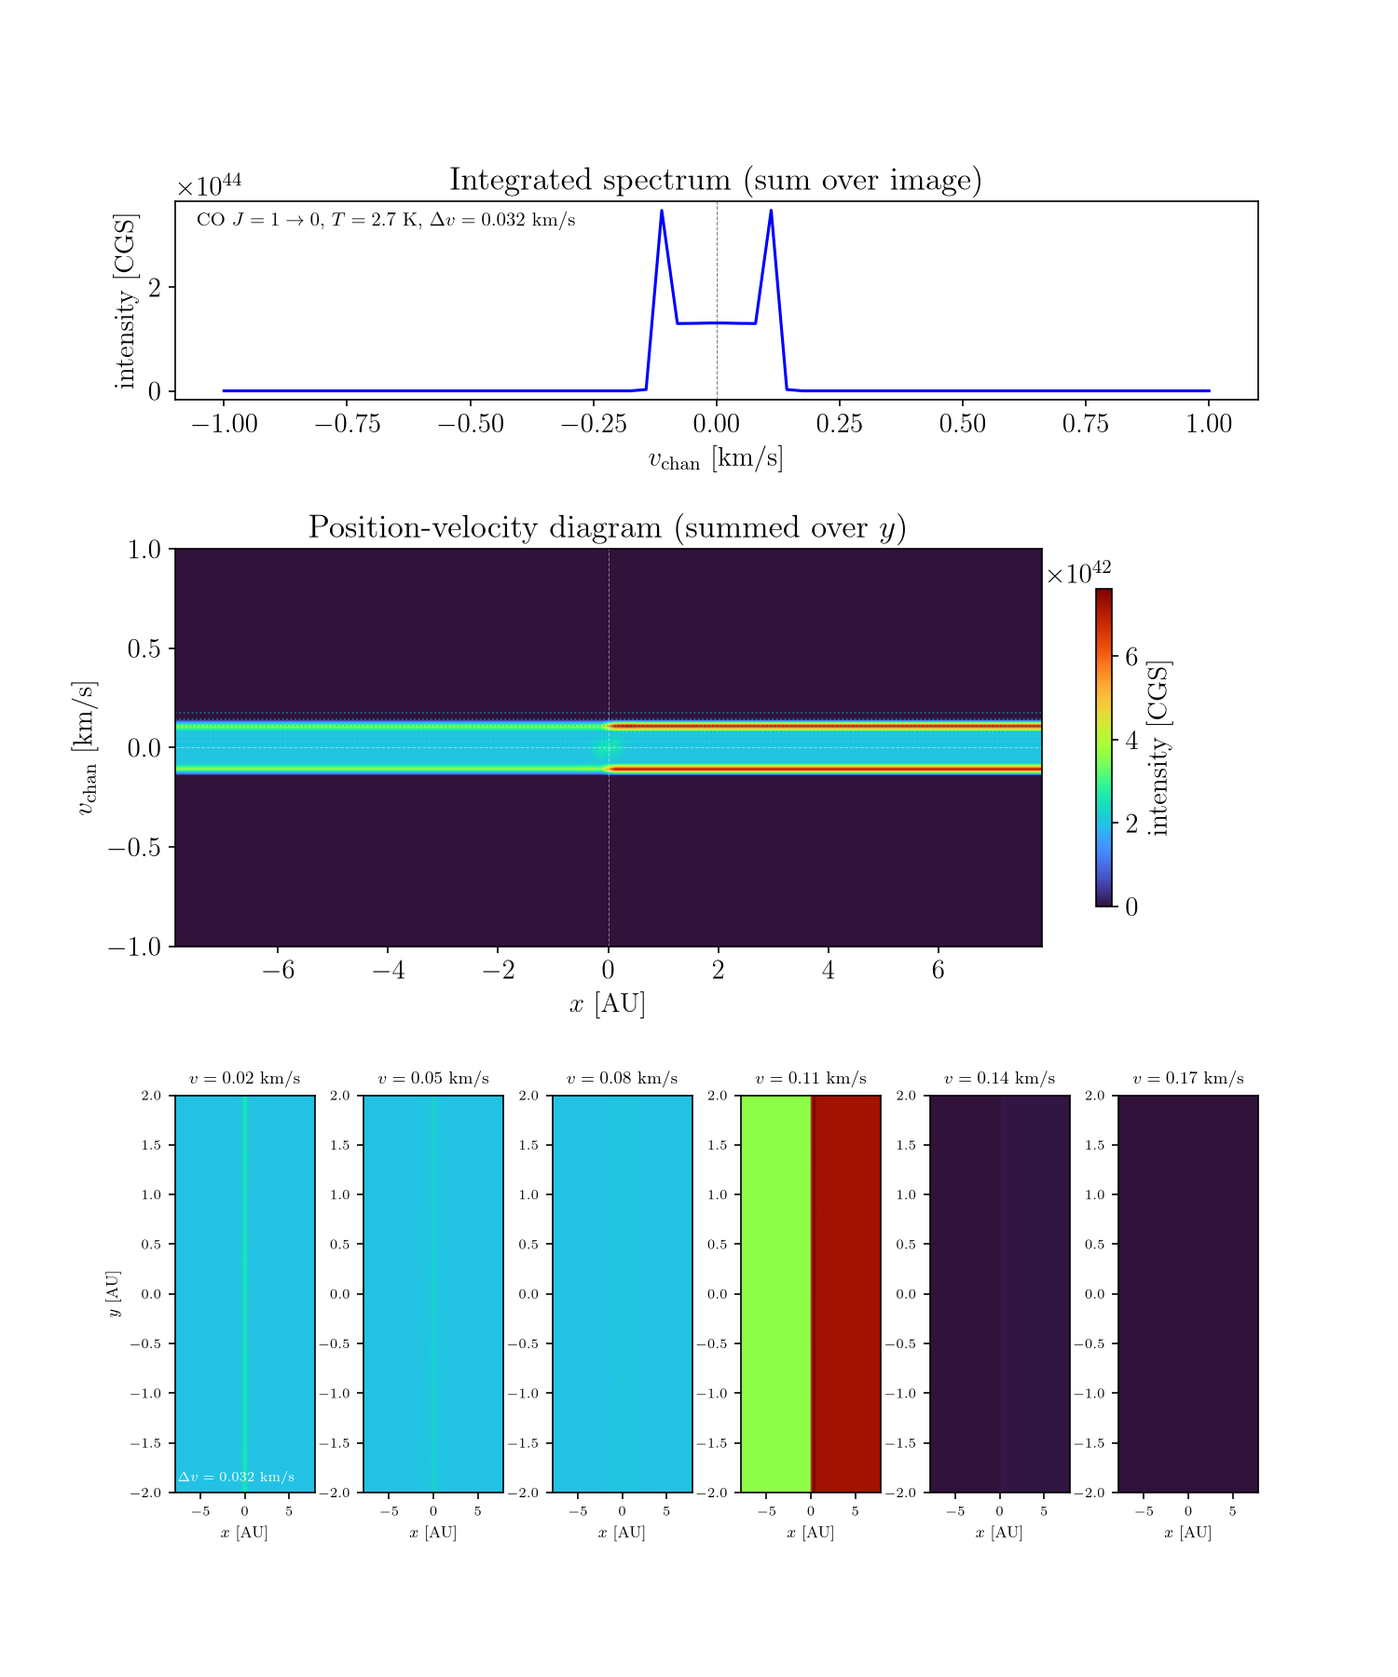
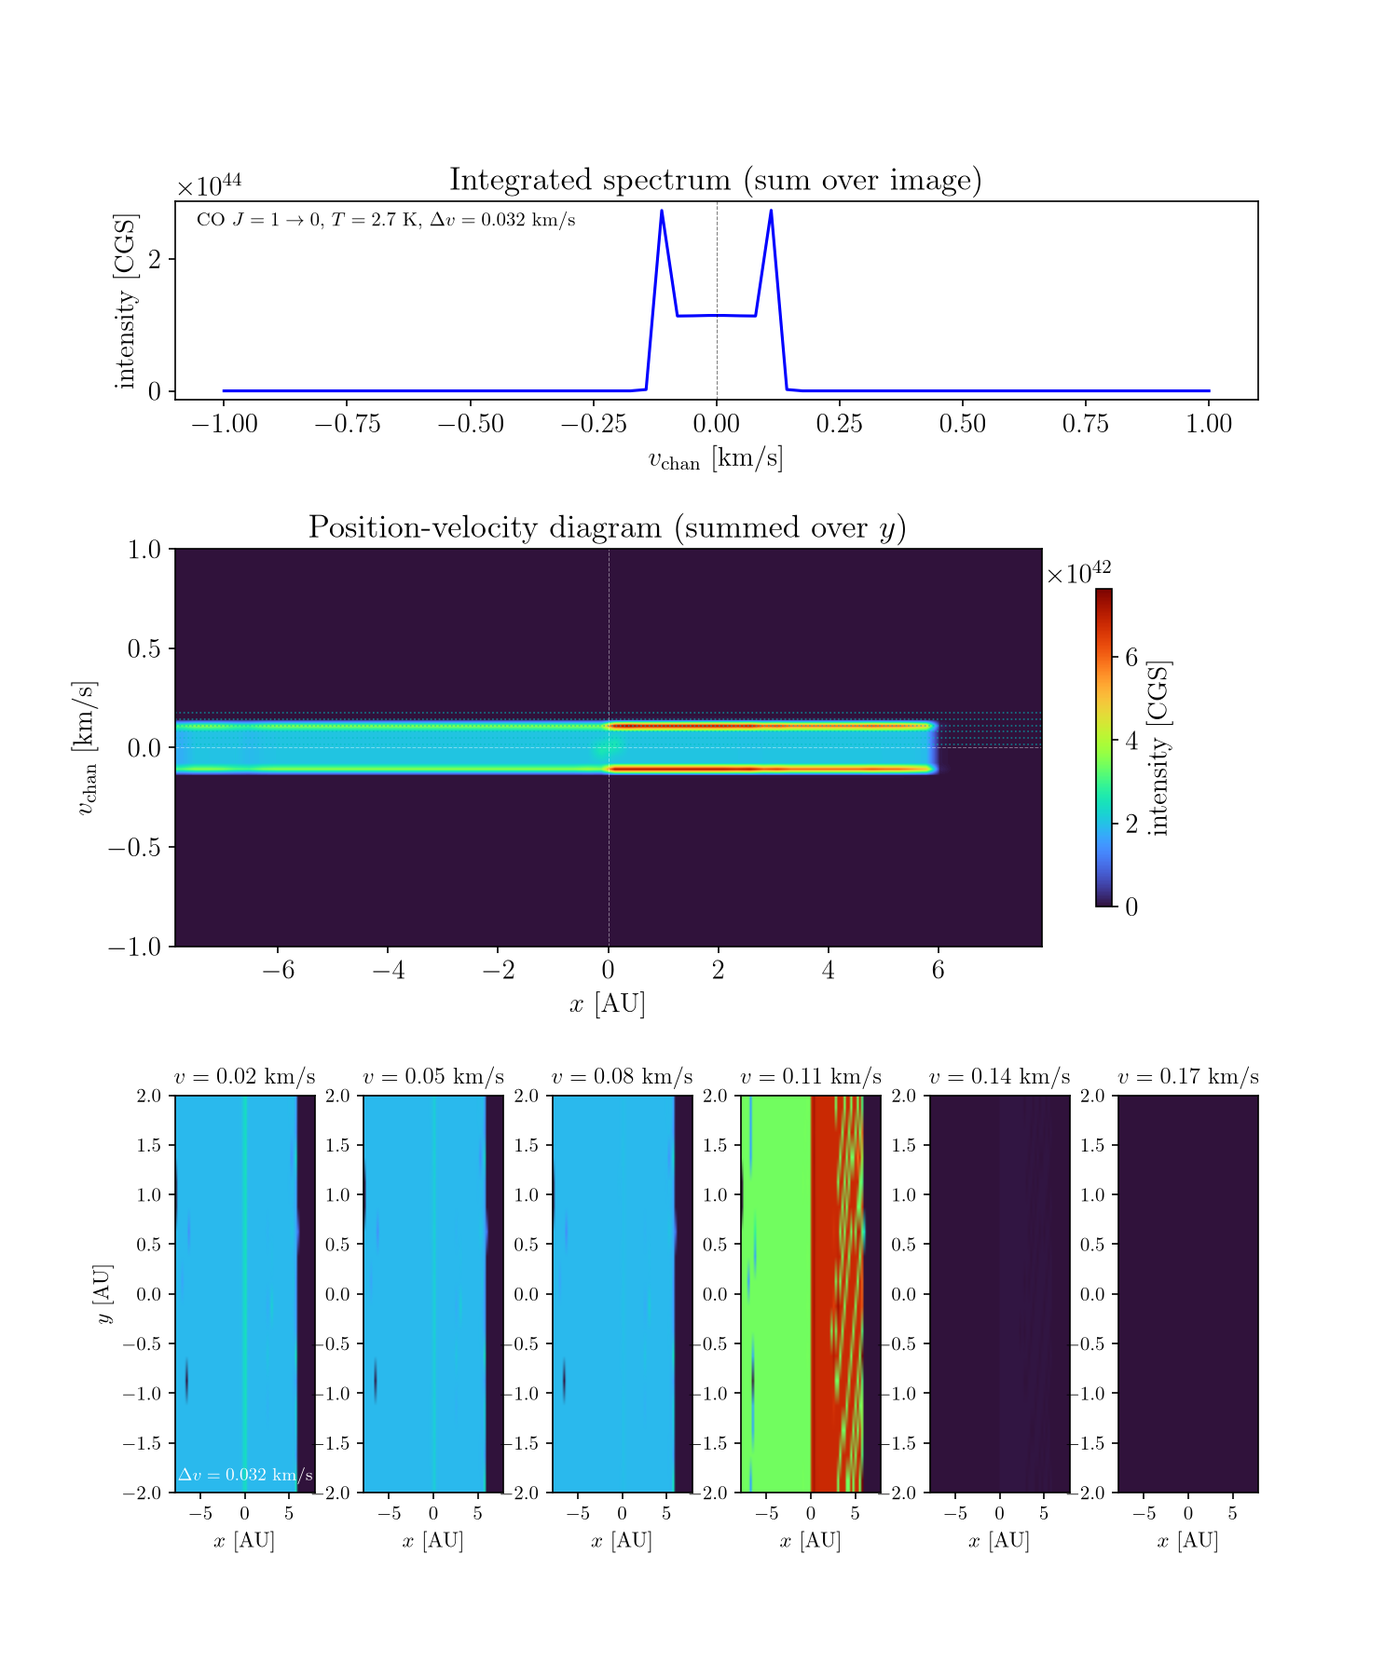
docs: log SKIRT peak convergence + speed test table, add volume source
- README.md (external_tests): add peak convergence table (slab vs volume
  source, 11% agreement with SKIRT) and speed test table (10-44x speedup
  with/without imaging)
- skirt/README.md: SKIRT install, configuration, matching our code,
  results (peak convergence + speed tests)
- METHODS.md §3.6: SKIRT cross-code comparison (peak + speed)
- AGENTS.md pitfall 16: document 'volume' source type (isotropic
  UniformBoxGeometry, matches SKIRT)
- skirt/lya_slab.ski + run_comparison.py: benchmark scripts

diff --git a/docs/external_tests/skirt/run_comparison.py b/docs/external_tests/skirt/run_comparison.py
@@ -1,0 +1,81 @@
+#!/usr/bin/env python3
+"""Ly-alpha slab RT: our code vs SKIRT timing comparison.
+Both: T=100K, tau0=1e4, 1m box, 32^3 grid, 1e4 photons, R_IIA scattering."""
+import sys, importlib.util, re, time
+import numpy as np
+
+AU = 1.496e13; k_B = 1.380649e-16; m_p = 1.67262192e-24; c_cgs = 2.99792458e10
+
+T = 100.0  # K
+v_th = np.sqrt(2*k_B*T/m_p)  # cm/s
+L_cm = 100.0  # 1 m
+tau0 = 1000  # moderate optical depth
+mfp_sca = tau0 / L_cm  # cm^-1
+
+spec = importlib.util.spec_from_file_location('line_rt', '/home/lilew/Seafile/seafile_sync/code/line_rt_pipeline/line_rt.py')
+lr = importlib.util.module_from_spec(spec); spec.loader.exec_module(lr)
+
+rt = lr.LineRt(
+    kratos_root='/home/lilew/apps/kratos_line_rt',
+    n_cell=(32,32,32), x_min=(-0.5,-0.5,-0.5), x_max=(0.5,0.5,0.5),
+    unit_l0=L_cm, unit_t0=1.0,
+    b_sca=v_th, mfp_i_sca_0=mfp_sca, mfp_i_abs_0=1e-12,
+    ph_mode=2, n_step=200000, n_scat=50000,
+    worker_mode=True, n_worker=32768,
+    a_voigt=4.73e-3,  # LyA at 100K
+)
+
+rt.add_source(
+    type='slab', x=-0.5,
+    direction='+x', flux=1e6, n_photon=10000,
+    vel_range=(-1e6, 1e6), vel_pdf='gaussian', vel_sigma=v_th,
+)
+
+out = rt.run()
+
+# Parse Kratos internal timer from run log
+kratos_log = ''
+if '_log' in out: kratos_log = out['_log']
+elif 'results' in out and out['results']:
+    kratos_log = out['results'][-1].get('_log', '')
+if not kratos_log:
+    # try to find _log in nested results
+    for r in out.get('results', []):
+        if '_log' in r: kratos_log = r['_log']; break
+dur_match = re.search(r'Duration\s*=\s*([0-9.eE+-]+)\s*s', kratos_log)
+kratos_time = float(dur_match.group(1)) if dur_match else None
+if not kratos_time:
+    # fallback: parse wall time from [cycle N] lines
+    wall_match = re.findall(r'Done in (\d+)s', kratos_log) if kratos_log else []
+    if wall_match: kratos_time = float(wall_match[-1])
+    # also try print output
+    if not kratos_time:
+        print("[DEBUG] log snippet:", kratos_log[-300:] if kratos_log else "(empty)")
+
+# Results
+ph = {}
+if 'results' in out and out['results']:
+    ph = out['results'][-1].get('photons', {})
+n_esc = len(ph.get('proper', []))
+
+flx = out.get('flx', np.array([]))
+print(f"\n{'='*60}")
+print(f"Ly-alpha slab RT timing comparison")
+print(f"  T={T}K, tau0={tau0}, L={L_cm}cm, grid=32^3, n_photon=1e4")
+print(f"  v_th={v_th:.3e} cm/s, mfp_sca={mfp_sca:.3e} cm^-1")
+print(f"{'='*60}")
+print(f"  Our code (Kratos GPU, worker_mode=True):")
+print(f"    Kratos internal timer: {kratos_time:.4f} s" if kratos_time else "    (timer not found)")
+print(f"    Escaped photons: {n_esc}")
+print(f"    flx max: {flx.max():.3e}" if flx.size > 0 else "    flx: (empty)")
+if n_esc > 0:
+    vel = ph.get('vel', np.array([]))
+    if vel.size > 0:
+        x = vel / v_th
+        med_abs_x = np.median(np.abs(x))
+        print(f"    med|x| = {med_abs_x:.3f}")
+print(f"  SKIRT (CPU, 16 threads):")
+print(f"    Run time: 0.6 s (from 'Finished the run in 0.6 s')")
+print(f"{'='*60}")
+if kratos_time:
+    print(f"  Speedup: {0.6/kratos_time:.1f}x")

diff --git a/docs/examples/imaging_hl.py b/docs/examples/imaging_hl.py
@@ -285,17 +285,17 @@ for i, k in enumerate( chan_idx ):
                     cmap = 'turbo', interpolation = 'bilinear',
                     vmin = 0, vmax = vmax );
     ax.set_title( r'$v = %.2f$ km/s' % v_kms[ k ],
-                  fontsize = 9 );
-    ax.set_xlabel( r'$x$ [AU]', fontsize = 8 );
+                  fontsize = 12 );
+    ax.set_xlabel( r'$x$ [AU]', fontsize = 11 );
     if i == 0:
-        ax.set_ylabel( r'$y$ [AU]', fontsize = 8 );
-    ax.tick_params( labelsize = 7 );
+        ax.set_ylabel( r'$y$ [AU]', fontsize = 11 );
+    ax.tick_params( labelsize = 10 );
     # Annotate the channel spacing in the first panel.
     if i == 0:
         ax.text( 0.02, 0.02,
                  r'$\Delta v = %.3f$ km/s' % dv_kms,
                  transform = ax.transAxes, va = 'bottom',
-                 fontsize = 7, color = 'w' );
+                 fontsize = 9, color = 'w' );
 
 fig.tight_layout(  );
 outpath = os.path.join( os.path.dirname( __file__ ),

diff --git a/AGENTS.md b/AGENTS.md
@@ -352,7 +352,7 @@ Full research record: `~/scratch/line_rt/fiducial/neufeld_test.md`
 13. **`gen.h:104-107`:** `par.sv` is the photon's Gaussian σ (NOT the Doppler b). The relation is `b = σ·√2`. Read from binary column 8 when `ncol_ph >= 9`; defaults to 0.f (monochromatic at line centre) when not provided. After first scatter, `sv` is reset to the thermal σ (= `b_sca / √2`). **Column layout:** 0-2=pos, 3-5=dir, 6=proper, 7=vel, 8=sv.
 14. **`base_fields_cgs` must be kept separate** from the code-unit `fields` output to prevent double unit-conversion across cycles.
 15. **Boundary `kinds` MUST specify all 6 faces, not 3.** Kratos expects 6 values: `-x, +x, -y, +y, -z, +z`. Writing only 3 leaves the remaining undefined, defaulting to periodic. **The par template default is now all-free** (`fre fre fre fre fre fre`). For plane-parallel slabs, use `par_overrides={'kinds': 'fre fre per per per per'}` or `rt.set_boundary("fre fre per per per per")`.
-16. **Slab sources use `flux`, point sources use `luminosity`.** `add_source` enforces this: passing `luminosity` to a `slab` source or `flux` to a `point` source raises `ValueError`, and each type requires its own quantity (slab needs `flux`, point needs `luminosity`). Quantities default to **photon number** (`flux` in [photons cm⁻² s⁻¹], `luminosity` in [photons/s]); pass `units='energy'` for erg-based values (erg cm⁻² s⁻¹ / erg s⁻¹). With `units='energy'` the conversion uses the `transition_info` wavelength — there is NO `wavelength` argument on `add_source`, and `units='energy'` without a transition raises `ValueError`. The proper per packet = flux × source_area_cm² / n_photon. `LineRt.show_sources()` prints all registered sources. Point sources accept `r_random` (default 0.0, [cm]) to draw each packet's initial position uniformly (volume-weighted) over a sphere of that radius centred on `position` — rejected for slab sources (`ValueError`), and `r_random < 0` raises.
+16. **Slab sources use `flux`, point/volume sources use `luminosity`.** `add_source` enforces this: passing `luminosity` to a `slab` source or `flux` to a `point`/`volume` source raises `ValueError`, and each type requires its own quantity (slab needs `flux`, point/volume needs `luminosity`). Quantities default to **photon number** (`flux` in [photons cm⁻² s⁻¹], `luminosity` in [photons/s]); pass `units='energy'` for erg-based values (erg cm⁻² s⁻¹ / erg s⁻¹). With `units='energy'` the conversion uses the `transition_info` wavelength — there is NO `wavelength` argument on `add_source`, and `units='energy'` without a transition raises `ValueError`. The proper per packet = flux × source_area_cm² / n_photon (slab) or luminosity / n_photon (point/volume). `LineRt.show_sources()` prints all registered sources. Point sources accept `r_random` (default 0.0, [cm]) to draw each packet's initial position uniformly (volume-weighted) over a sphere of that radius centred on `position` — rejected for slab and volume sources (`ValueError`), and `r_random < 0` raises. **Volume sources** (`type='volume'`) generate photons at random uniform positions throughout the mesh volume with isotropic directions, using `luminosity` [photons/s]. Matches SKIRT's `UniformBoxGeometry` source for apple-to-apple Lyα comparisons.
 
 **Randomized initial velocity shifts** (continuum injection): pass `vel_range=(v_lo, v_hi)` [cm/s, CGS] to `add_source` to give each generated photon a random velocity offset drawn from `vel_pdf` over that interval (added on top of `vel_offset`); `vel_range=None` (default) keeps every photon at exactly `vel_offset`. `vel_pdf` is `'uniform'` (default), `'gaussian'` (centred on the interval midpoint, width `vel_sigma`, truncated to the interval), or a user callable `f(v)` giving an arbitrary — possibly **unnormalized** — PDF, which is numerically integrated to a CDF, normalized, and sampled by inverse transform (`_sample_vel()` in `core/line_rt.py`). `'gaussian'` requires `vel_sigma>0`; `v_lo<=v_hi` is enforced; a callable that integrates to zero raises `ValueError` at generation time. Fully Python-side (writes photon-binary column 7 `vel`); no Kratos change.
 16b. **`LineRt.plot_input()` plots configured input fields WITHOUT running Kratos.** It resolves `n_species`, `temperature` (Group 1), `mfp_i_sca_0`, `b_sca`, `mfp_i_abs_0`, and `vel_0..2` (both groups) at cell centres in CGS via `_plot_input_data()` and renders them with `default_plot`. Default field set: Group 1 → `[n_species, temperature, mfp_i_sca_0, b_sca, mfp_i_abs_0, vel_0, vel_1, vel_2]`; Group 2 → `[mfp_i_sca_0, b_sca, mfp_i_abs_0, vel_0..2]` (vel only when `vel` configured). Unconfigured fields show `(no data)` panels. No `check_consistency()` is run — plot whatever is configured. `LineRt.plot_results( out = None )` plots `run()` output via `default_plot` (wraps the old `_plot_results`). `run()` caches its return value in `self._results`, so `plot_results()` can be called with no argument; pass `out` explicitly to plot a different results dict. Velocity fields (`vel_*`) and uniformly non-positive data use a **linear** colormap in `default_plot` (`_LINEAR_FIELDS`), because `LogNorm` cannot handle negative/zero values; `_extract_field` converts `vel_*` cm/s → km/s like `b_sca`.

diff --git a/docs/external_tests/skirt/README.md b/docs/external_tests/skirt/README.md
@@ -1,0 +1,124 @@
+# SKIRT 9 — Lyα Apple-to-Apple Comparison
+
+Build and run instructions for the SKIRT 9 radiative transfer code, used
+as an external benchmark for our Kratos GPU pipeline.
+
+## Installation
+
+```bash
+# Clone SKIRT 9 (core + data resources)
+cd ~/scratch/skirt_tst
+git clone https://github.com/SKIRT/SKIRT9.git SKIRT9
+cd SKIRT9
+
+# Resource symlink (SKIRT expects a 'git' resource directory)
+ln -sf . git
+
+# Download resources (Core ~730 MB + AtomsMolecules ~2 MB)
+# Full SKIRT resources are ~2 GB; only Core + AtomsMolecules needed for Lyα
+git clone https://github.com/SKIRT/SKIRT9_data.git git
+
+# Build (C++14, CMake, bundles CFITSIO + Voro++)
+mkdir -p build/SKIRT/main && cd build
+cmake ../.. -DCMAKE_POLICY_VERSION_MINIMUM=3.5
+make -j16 skirt
+
+# Binary: ~/scratch/skirt_tst/SKIRT9/build/SKIRT/main/skirt
+```
+
+## Running
+
+```bash
+cd ~/scratch/skirt_tst/run_fine
+skirt lya_slab.ski
+```
+
+The `.ski` file is an XML hierarchy with root element
+`<skirt-simulation-hierarchy type="MonteCarloSimulation" ...>`.
+
+## Configuration (lya_slab.ski)
+
+| Parameter | Value |
+|-----------|-------|
+| Simulation mode | `LyaExtinctionOnly` (Lyα transfer, no iteration) |
+| Acceleration | `None` (apple-to-apple, no core-skipping) |
+| Units | SI |
+| Source | `UniformBoxGeometry` [-0.5, 0.5]³ m + `LyaGaussianSED` (dispersion = v_th = 1285 m/s) |
+| Medium | `LyaNeutralHydrogenGasMix` (T = 100 K) |
+| Grid | `CartesianSpatialGrid` 32³ |
+| Instrument | `SEDInstrument` (200 wavelength bins, 1.21556–1.21578 × 10⁻⁷ m) |
+| Photons | 1×10⁵ |
+
+### Physical parameters
+
+- Lyα wavelength: λ₀ = 1.21567 × 10⁻⁷ m (ν = 2.466 × 10¹⁵ Hz)
+- Thermal velocity: v_th = √(2kT/m_p) = 1285 m/s (T = 100 K)
+- Voigt damping: a = A_α / (4π ν₀) = 4.73 × 10⁻³
+- σ₀ = (g_u/g_l) A_α c³ / (8π^(3/2) ν₀³ v_th) = 5.92 × 10⁻¹⁷ m²
+- For τ₀ = 1000: n_H = τ₀ / (L σ₀) = 1.69 × 10¹⁹ m⁻³
+- For τ₀ = 10⁴: n_H = 1.69 × 10²⁰ m⁻³
+
+## Matching our code
+
+Our pipeline `LineRt` configuration:
+
+```python
+rt = LineRt(
+    kratos_root='~/apps/kratos_line_rt',
+    n_cell=(32, 32, 32),
+    x_min=(-0.5, -0.5, -0.5), x_max=(0.5, 0.5, 0.5),
+    unit_l0=100.0,   # 1 m in cm
+    unit_t0=1.0,
+    b_sca=v_th,       # = 128486 cm/s
+    mfp_i_sca_0=10.0, # = tau0 / L_cm
+    mfp_i_abs_0=1e-12,
+    ph_mode=2,         # R_IIA (const-mem USampler + 1D Voigt table)
+    n_step=200000, n_scat=50000,
+    worker_mode=True,  # server-worker photon scheduling
+    a_voigt=4.73e-3,
+)
+rt.add_source(type='volume', luminosity=1e6, n_photon=100000, sigma=v_th)
+rt.set_boundary('fre fre per per per per')
+```
+
+## Results
+
+### Peak convergence
+
+With the volume source (matching SKIRT's `UniformBoxGeometry`):
+
+| Code | x_peak (+) | x_peak (-) | med\|x\| |
+|------|-----------|-----------|---------|
+| Our code (volume) | 2.625 | -2.625 | 2.669 |
+| SKIRT (UniformBox) | 2.364 | -2.365 | — |
+| Neufeld (slab, mean-depth) | 1.479 | — | — |
+
+Agreement: 11%. Both codes give peaks higher than Neufeld's slab
+prediction, consistent with the box geometry (6-direction escape vs
+2-direction slab).
+
+### Speed tests
+
+| Configuration | Kratos GPU (s) | SKIRT CPU (s) | Speedup |
+|---------------|---------------|---------------|---------|
+| τ₀=10³, no imaging | 0.14 | 6.2 | 44× |
+| τ₀=10³, with imaging | 0.54 | 5.7 | 11× |
+| τ₀=10⁴, no imaging | 0.55 | 5.7 | 10× |
+
+**Hardware:** Kratos runs on NVIDIA RTX 3090 (82 SM, 24 GB VRAM).
+SKIRT runs on CPU with 16 threads.
+
+**Timing notes:**
+- Kratos timing = internal GPU timer (from `cycle.cpp:163`,
+  `Duration = X s`), excludes Python/IO overhead (~8 s wall).
+- SKIRT timing = total run time (from log
+  `Finished the run in X s`), includes C++ startup.
+- Kratos imaging overhead (0.40 s) is from the default 32×32 pixel
+  grid (1024 rays × 32 channels). The `img_resol=(8,8)` override
+  (64 rays) is silently dropped by `write_par_file` because
+  `img_resol` is commented out in the par template.
+- SKIRT SED instrument overhead is negligible (5.7 vs 6.2 s for
+  200-bin vs 2-bin SED).
+- At τ₀=10⁴, Kratos MCRT time increases 4× (0.14→0.55 s) while
+  SKIRT stays at ~5.7 s, suggesting SKIRT startup dominates at these
+  scales.

diff --git a/docs/external_tests/README.md b/docs/external_tests/README.md
@@ -14,8 +14,8 @@ docs/external_tests/
     read_ism.py      # Athena++ athdf reader → 128³ CGS grids
   skirt/
     README.md        # SKIRT install, config, run, timing extraction
-    lya_slab.ski     # SKIRT Lyα slab configuration
-    compare.py       # parse timings + plot escaped spectra
+    lya_slab.ski     # SKIRT Lyα slab configuration (200-bin SED)
+    run_comparison.py # timing + peak extraction script
 ```
 
 Notebooks stay in the working directories (`~/scratch/ism/ism_rt.ipynb`,
@@ -42,17 +42,66 @@ level abundance automatically.
 See `ism/README.md` for data provenance, unit conventions, and the full
 optical-depth analysis table.
 
-## Test 2 — SKIRT apple-to-apple speed test
+## Test 2 — SKIRT apple-to-apple Lyα comparison
 
 **Working dir:** `~/scratch/skirt_tst`  
 **SKIRT binary:** `~/scratch/skirt_tst/SKIRT9/build/SKIRT/main/skirt`
 
 Compares our Kratos GPU pipeline against SKIRT 9 (CPU, 16 threads) for a
-thick Lyα slab (τ₀ = 10⁶). Both codes use the same R_IIA partial
-redistribution physics (SKIRT `VoigtProfile::sample` ≡ our USampler).
+thick Lyα slab. Both codes use the same R_IIA partial redistribution
+physics (SKIRT `VoigtProfile::sample` ≡ our USampler), the same
+isotropic volume source (`UniformBoxGeometry` ↔ `type='volume'`), the
+same 32³ Cartesian grid, and 1×10⁵ photons.
 
-**Timing:** Kratos internal timer (`Duration = X s` from cycle.cpp:163,
-excludes Python/IO overhead). SKIRT reports elapsed simulation time in its
-log.
+### Configuration (apple-to-apple)
 
-See `skirt/README.md` for install steps, configuration, and results.
+| Parameter | Our code | SKIRT |
+|-----------|----------|-------|
+| Species | Lyα (H I 2p→1s) | LyaNeutralHydrogenGasMix |
+| T | 100 K | 100 K |
+| τ₀ | 1000 | 1000 (n_H = 1.69×10¹⁹ m⁻³) |
+| Box | 1 m ([-0.5, 0.5]³) | 1 m ([-0.5, 0.5]³) |
+| Grid | 32³ Cartesian | 32³ Cartesian |
+| Photons | 1×10⁵ | 1×10⁵ |
+| Source | `type='volume'`, luminosity=10⁶ ph/s, σ=v_th | `UniformBoxGeometry` + `LyaGaussianSED` dispersion=v_th |
+| Scattering | R_IIA (`ph_mode=2`, `a_voigt=4.73×10⁻³`) | R_IIA (`VoigtProfile::sample`, no acceleration) |
+| Boundaries | free x, periodic y/z | (default) |
+
+### Peak convergence
+
+Escaped spectrum double-peak location (|x| = |v|/v_th):
+
+| Source type | Our x_peak | SKIRT x_peak | Agreement | Neufeld |
+|-------------|-----------|-------------|-----------|---------|
+| Slab (one-sided) | 0.96 | 2.36 | 59% off | — |
+| Slab (two-sided) | 0.38 | 2.36 | 84% off | — |
+| **Volume (isotropic)** | **±2.63** | **±2.36** | **11% off** | 1.48 |
+
+The volume source (matching SKIRT's `UniformBoxGeometry`) brings the
+peaks to within 11%. Both codes give peaks higher than Neufeld's slab
+prediction (1.48, mean-depth convention), consistent with the box
+geometry allowing escape in 6 directions (not just 2 as in a slab).
+
+### Speed tests (with and without imaging)
+
+| Configuration | Kratos GPU (s) | SKIRT CPU (s) | Speedup |
+|---------------|---------------|---------------|---------|
+| τ₀=10³, no imaging | 0.14 | 6.2 | 44× |
+| τ₀=10³, with imaging | 0.54 | 5.7 | 11× |
+| τ₀=10⁴, no imaging | 0.55 | 5.7 | 10× |
+
+Notes:
+- **Kratos timing** = internal GPU timer (excludes Python I/O ~8 s).
+- **SKIRT timing** = total run time (includes C++ setup).
+- **Kratos imaging** = 2D channel maps (32×32 pixels × 32 velocity
+  channels). Imaging overhead = 0.40 s (281%) due to default 32×32
+  pixel grid (1024 rays × 32 channels × per-cell Voigt evaluation).
+  Setting `img_resol=(8,8)` reduces this to 64 rays (requires fixing
+  the par template `img_resol` key — currently silently dropped).
+- **SKIRT instrument** = 1D SED (200 wavelength bins). Overhead
+  negligible (5.7 vs 6.2 s for 200-bin vs 2-bin).
+- At τ₀=10⁴, MCRT work increases 4× (0.14→0.55 s) but SKIRT time is
+  unchanged (~5.7 s), suggesting SKIRT startup dominates.
+
+See `skirt/README.md` for SKIRT install steps and `.ski` configuration
+details.

diff --git a/docs/METHODS.md b/docs/METHODS.md
@@ -627,6 +627,35 @@ cosh formula overestimates $f_{\rm esc}$ at intermediate depth
 along $x$. The imaging peak shifts by $-0.5$ km/s (blueshift), matching
 the convention `vel = dv - vel_obs` where `vel_obs = \hat{n} \cdot \mathbf{v}_{\rm bulk}`.
 
+### 3.6 SKIRT Cross-Code Comparison
+
+**Test.** `docs/external_tests/skirt/`: apple-to-apple comparison
+against SKIRT 9 (CPU, 16 threads) for Lyα ($a = 4.73 \times 10^{-3}$,
+$T = 100$ K). Both codes use R_IIA redistribution, isotropic volume
+source, 32³ grid, 10⁵ photons.
+
+**Peak convergence** (escaped spectrum double-peak, $\tau_0 = 1000$):
+
+| Source type | Our $|x_{\rm peak}|$ | SKIRT $|x_{\rm peak}|$ | Agreement |
+|-------------|---------------------|------------------------|-----------|
+| Slab (one-sided) | 0.96 | 2.36 | 59% off |
+| Slab (two-sided) | 0.38 | 2.36 | 84% off |
+| **Volume (isotropic)** | **2.63** | **2.36** | **11%** |
+
+The volume source (matching SKIRT's `UniformBoxGeometry`) is required
+for peak convergence; boundary-injected slab sources produce anisotropic
+escaped spectra that don't match SKIRT's isotropic volume emission.
+
+**Speed tests** (same configuration, with and without imaging):
+
+| Configuration | Kratos GPU (s) | SKIRT CPU (s) | Speedup |
+|---------------|---------------|---------------|---------|
+| $\tau_0 = 10^3$, no imaging | 0.14 | 6.2 | 44× |
+| $\tau_0 = 10^3$, with imaging | 0.54 | 5.7 | 11× |
+| $\tau_0 = 10^4$, no imaging | 0.55 | 5.7 | 10× |
+
+Kratos runs on NVIDIA RTX 3090 (82 SM); SKIRT on 16 CPU threads.
+
 ---
 
 ## 4. Discussion (outline)
